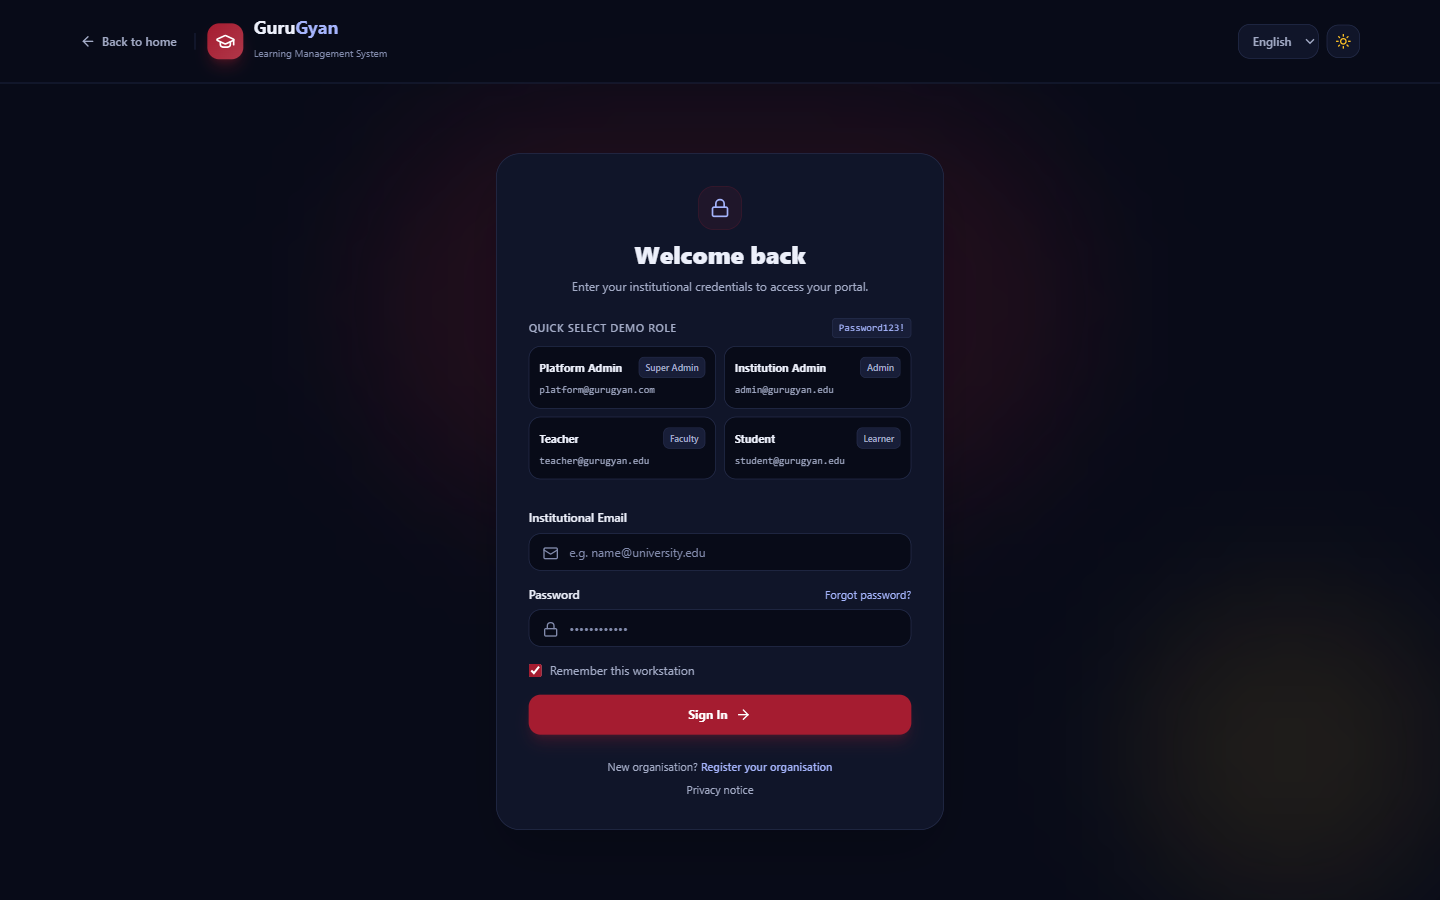
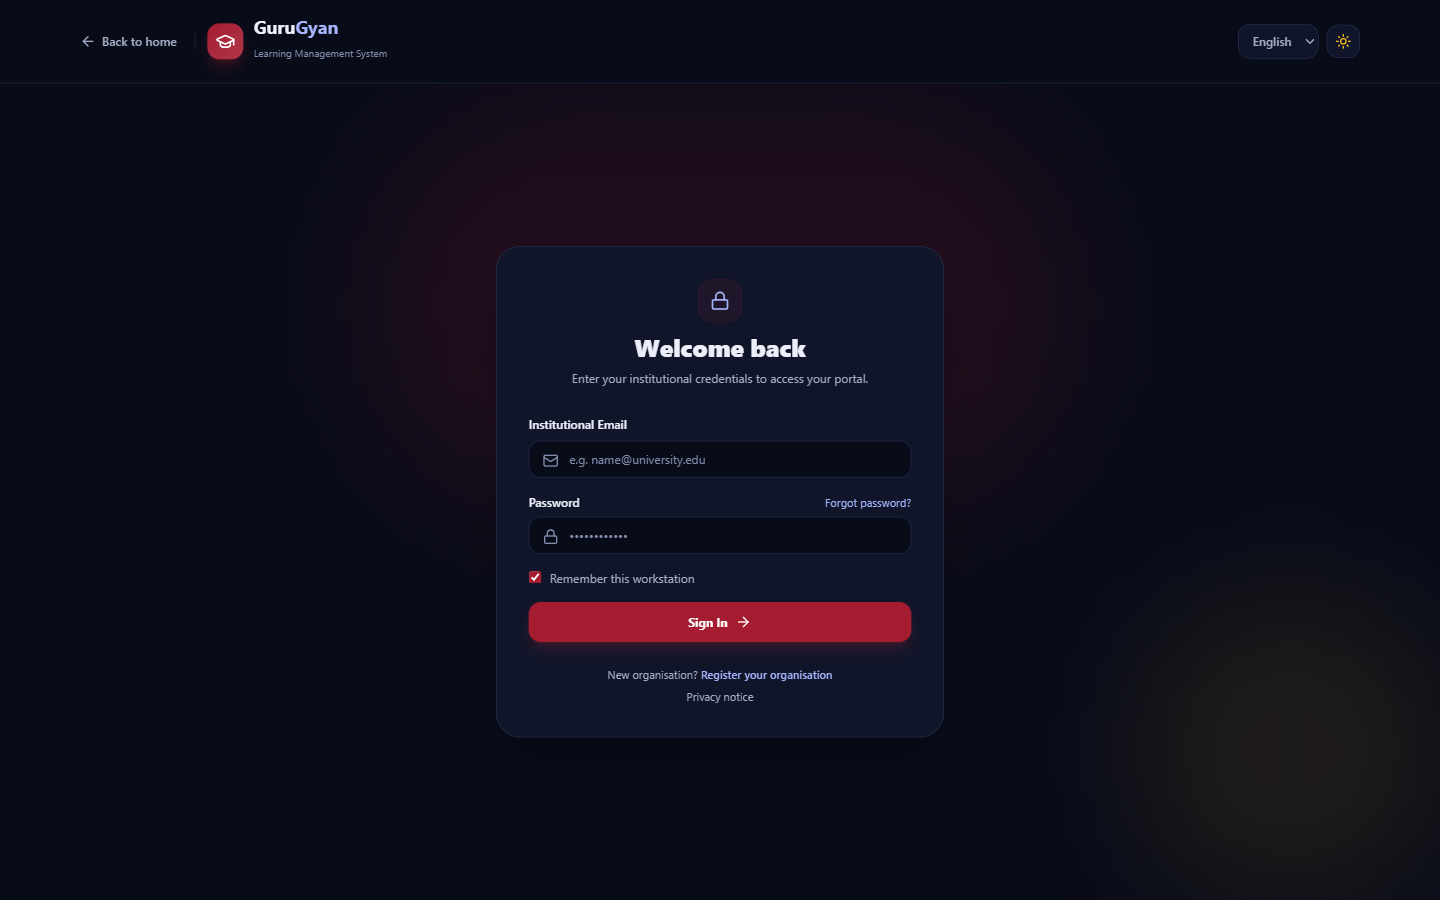
Remove the demo role quick-select from the login page
The sign-in form no longer offers one-click demo accounts or shows the
seed password. Retake the login screenshot used in the README.

diff --git a/apps/web/src/app/login/page.tsx b/apps/web/src/app/login/page.tsx
@@ -15,29 +15,6 @@ import { LanguageSwitcher, useT } from '@/lib/i18n';
 // Error codes the API puts in /login?error= after a failed single sign-on round trip (messages: login.error.<code>).
 const SSO_ERROR_CODES = ['sso_failed', 'sso_unavailable'] as const;
 
-const DEMO_USERS = [
-  {
-    roleName: 'Platform Admin',
-    email: 'platform@gurugyan.com',
-    roleTag: 'Super Admin',
-  },
-  {
-    roleName: 'Institution Admin',
-    email: 'admin@gurugyan.edu',
-    roleTag: 'Admin',
-  },
-  {
-    roleName: 'Teacher',
-    email: 'teacher@gurugyan.edu',
-    roleTag: 'Faculty',
-  },
-  {
-    roleName: 'Student',
-    email: 'student@gurugyan.edu',
-    roleTag: 'Learner',
-  },
-];
-
 function LoginForm() {
   const router = useRouter();
   const searchParams = useSearchParams();
@@ -195,43 +172,6 @@ function LoginForm() {
                 <span>{errorMsg}</span>
               </div>
             )}
-
-            {/* Quick Demo Credentials */}
-            <div className="space-y-2">
-              <div className="flex items-center justify-between text-[11px] text-ink-muted">
-                <span className="font-semibold uppercase tracking-wider">Quick Select Demo Role</span>
-                <span className="text-[10px] font-mono bg-raised px-1.5 py-0.5 rounded border border-line text-brand-fg">Password123!</span>
-              </div>
-              <div className="grid grid-cols-2 gap-2">
-                {DEMO_USERS.map((demo) => {
-                  const isSelected = email === demo.email;
-                  return (
-                    <button
-                      key={demo.email}
-                      type="button"
-                      onClick={() => {
-                        setEmail(demo.email);
-                        setPassword('Password123!');
-                        setErrorMsg(null);
-                      }}
-                      className={`p-2.5 rounded-xl border text-left transition-all flex flex-col justify-between gap-1 text-xs ${
-                        isSelected
-                          ? 'border-brand bg-brand/10 text-brand-fg shadow-sm'
-                          : 'border-line hover:border-brand/40 bg-canvas hover:bg-raised text-ink'
-                      }`}
-                    >
-                      <div className="flex items-center justify-between w-full">
-                        <span className="font-bold text-[11px] leading-tight truncate">{demo.roleName}</span>
-                        <span className="text-[9px] px-1.5 py-0.5 rounded-md bg-raised text-ink-muted border border-line font-medium shrink-0">
-                          {demo.roleTag}
-                        </span>
-                      </div>
-                      <span className="text-[10px] text-ink-muted truncate font-mono">{demo.email}</span>
-                    </button>
-                  );
-                })}
-              </div>
-            </div>
 
             {/* Credentials Form */}
             <form onSubmit={handleSubmit} className="space-y-4">
